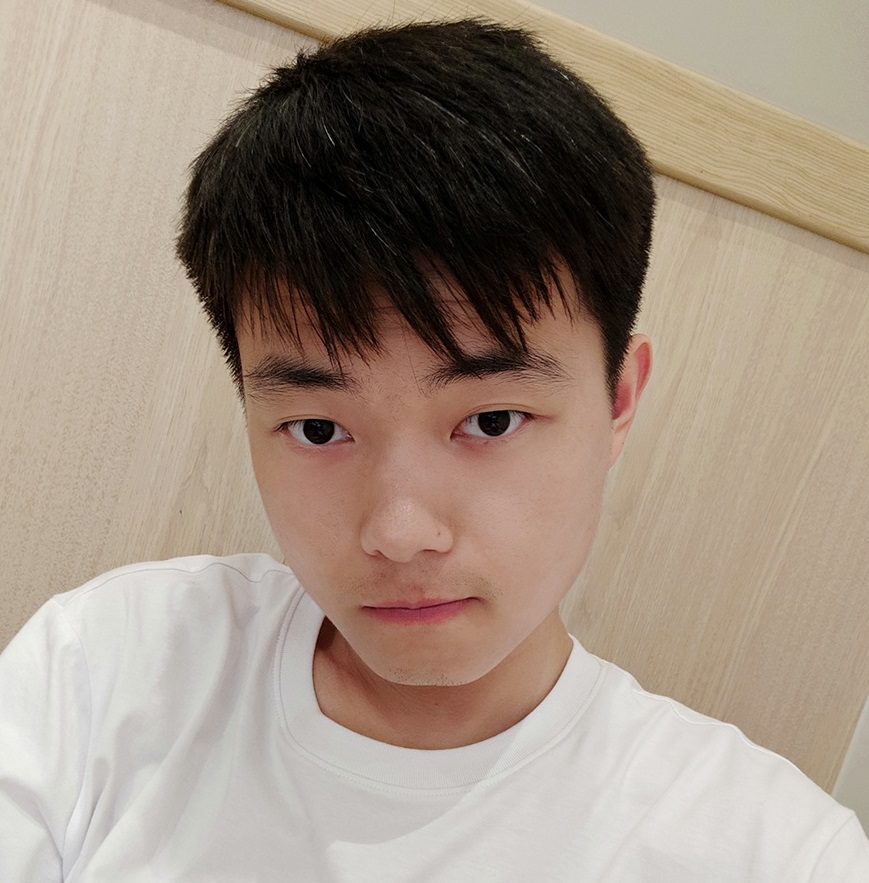
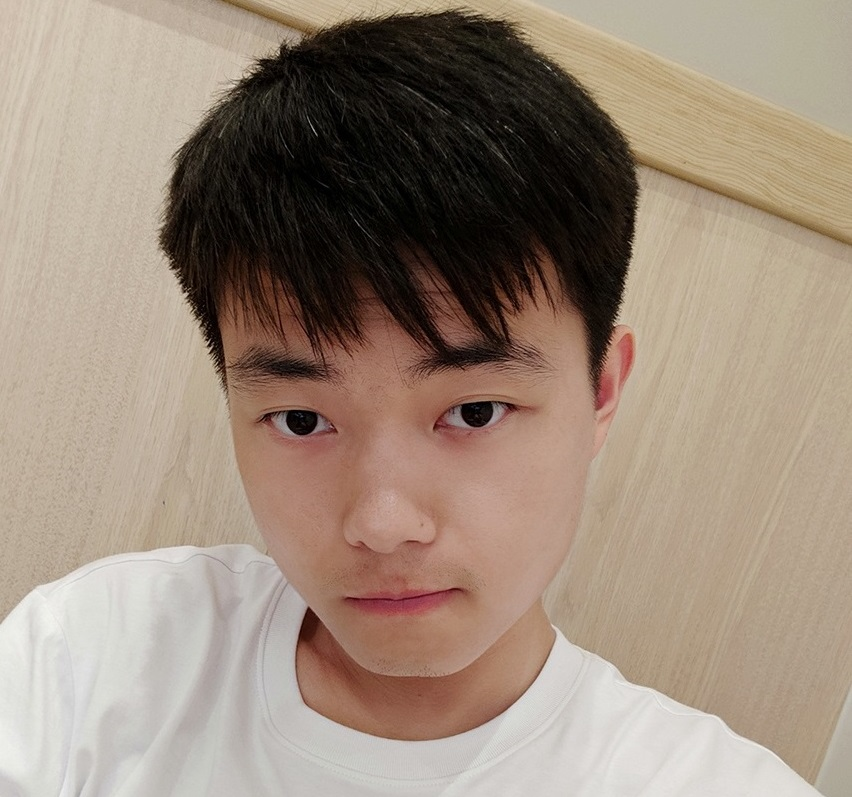
update profile image

diff --git a/index.html b/index.html
@@ -367,8 +367,7 @@ About me
 </div>
 <figure>
 <p>
-<img class="img-circle" src="images/profile_image.jpg" style="height:140px; margin-left:5px"
- width="auto" align="center">
+<img class="img-circle" src="images/profile_image.jpg" style="height:120px; margin-left:5px" align="right">
 </p>
 </figure>
 </div>
